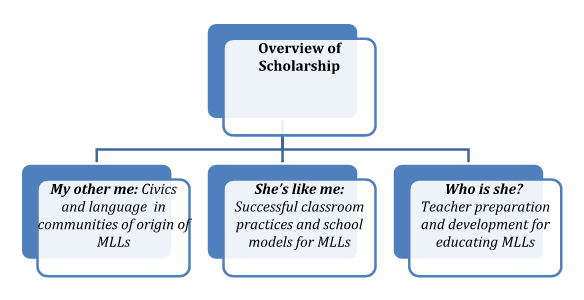
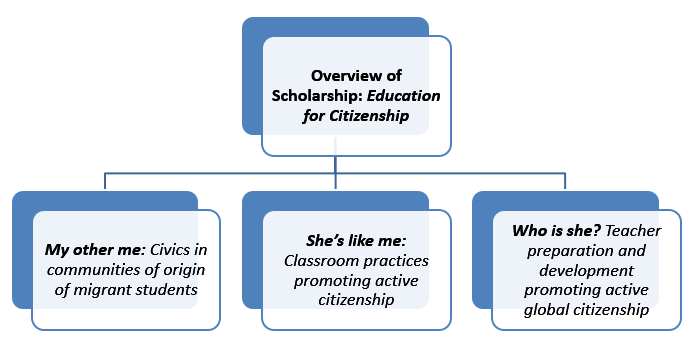
round 2 of updates
some text, still need to format better - css changes?

Changed region(s): [[0.0, 0.03, 0.9863, 0.96]]

diff --git a/index.html b/index.html
@@ -46,7 +46,7 @@
 											<header>
 												<h2>A little bit about me:</h2>
 											</header>											
-											<h3>Assistant Professor of Education Leadership</h3>
+											<h3>Assistant Professor of Educational Leadership</h3>
 											<p>I'll be teaching a couple of classes in the fall at
 											<a href="http://http://www.lewisu.edu/">Lewis University</a>. 
 											This will be my first year there and I'm excited to be a part
@@ -70,46 +70,29 @@
 														<article class="box excerpt">
 															<header>
 																<!--      <span class="date">July 30</span>    -->
-																<h3><a href="#">Moved to Chicago</a></h3>
+																<h3>Recent Article</h3>
 															</header>
-															<p>In late May my family and I moved to Chicago and started
-															   a new tradition of eating dim sum every Sunday.</p>
+															<p>See my recent article on teacher practice in
+															   International Baccalaureate Schools 
+															   <a href ="http://www.tcrecord.org/content.asp?contentid=18072">here</a>.
+															</p>
 														</article>
 
 												</li>
 												<li>
-
 													<!-- Excerpt -->
 														<article class="box excerpt">
 															<header>																
-																<h3><a href="#">Published Some Stuff</a></h3>
+																<h3>Arnhold Symposium Presentation</h3>
 															</header>
-															<p>Also a pretty sick journal is featuring my writing, you can
-															   be stopped by the paywall if you go <a href=""www.google.com">here</a>.</p>
+															<p>In October I gave a presentation on 
+															   Human Rights in Education Discourse in Post-Conflict Liberia
+															   at the Arnhold Symposium; more information is available 
+															   <a href="http://www.gei.de/en/fellowships/georg-arnhold-program/arnhold-symposium.html">here</a>.
+															   </p>
 														</article>
 
 												</li>												
-											</ul>
-										</section>
-
-									<!-- Highlights -->
-										<section>
-											<ul class="divided">
-												<li>
-
-													<!-- Highlight -->
-														<article class="box highlight">
-															<header>
-																<h3><a href="#">French Neighbors</a></h3>
-															</header>
-															<a href="#" class="image left"><img src="images/COlake.jpg" alt="" /></a>
-															<p>And vacays to Colorado to visit my favorite sister.</p>
-															<ul class="actions">
-																<li><a href="#" class="button icon fa-file">Learn More</a></li>
-															</ul>
-														</article>
-
-												</li>
 											</ul>
 										</section>
 
@@ -162,9 +145,9 @@
 													Romeoville, IL 60446-2200<br />													
 													USA
 												</li>
-												<li class="icon fa-phone">
+								<!--		    	<li class="icon fa-phone">
 													(815) 838-0500
-												</li>
+												</li> -->
 												<li class="icon fa-envelope">
 													<a href="#">lauraquaynor@gmail.com</a>
 												</li>
@@ -173,11 +156,11 @@
 										<div class="6u 12u(mobile)">
 											<ul class="icons">
 												<li class="icon fa-twitter">
-													<a href="#">@untitled-tld</a>
+													<a href="#">@LauraQuaynor</a>
 												</li>
-												<li class="icon fa-instagram">
+								<!--				<li class="icon fa-instagram">
 													<a href="#">instagram.com/untitled-tld</a>
-												</li>
+												</li> -->
 												<li class="icon fa-facebook">
 													<a href="#">facebook.com/laura.quaynor</a>
 												</li>

diff --git a/Teaching.html b/Teaching.html
@@ -52,13 +52,13 @@
 											must first love and understand the universe.” I am infinitely curious about the way cultures, 
 											languages, history, and society shape the educational enterprise, and make it a point to explore 
 											issues in education and the world around us with my students.  For example, in courses preparing 
-											students to work with multilingual learners, we view films such as Rabbit Proof Fence, The 
-											Graduates, and Precious Knowledge in order to explore historical and contemporary issues 
-											surrounding multilingualism. We also visit community sites of learning, attending PTA 
-											meetings, afterschool programs, and extracurricular activities salient to multilingual students. To 
+											students to be social studies educators, we view films such as Precious Knowledge, Older Than America,
+											and War Don Don in order to explore historical and contemporary issues surrounding social
+											studies education. We also visit community sites of learning, attending PTA meetings, 
+											afterschool programs, and extracurricular activities salient to student civic learning. To 
 											help students have an embodied experience of learning in an unknown language, a colleague and 
 											I developed a set of instructional videos in Twi, a language unknown to most students, to 
-											demonstrate different language learning methods.</p>
+											demonstrate the importance of sheltered or bilingual instruction.</p>
 											<p>Interested? Download my entire philosophy <a href="https://drive.google.com/open?id=0BzcazMD6IV8iWkpGaU90LXhiSXhEUWlIQ1oxTERmcjczZl9F">here</a>.</p>
 											<h3>Courses Taught</h3>
 											<p>Lewis University</p>
@@ -191,7 +191,7 @@
 					</div>
 				</div>
 
-						<!-- Footer -->
+			<!-- Footer -->
 				<div id="footer-wrapper">
 					<div id="footer" class="container">
 						<header>
@@ -235,9 +235,9 @@
 													Romeoville, IL 60446-2200<br />													
 													USA
 												</li>
-												<li class="icon fa-phone">
+								<!--		    	<li class="icon fa-phone">
 													(815) 838-0500
-												</li>
+												</li> -->
 												<li class="icon fa-envelope">
 													<a href="#">lauraquaynor@gmail.com</a>
 												</li>
@@ -246,11 +246,11 @@
 										<div class="6u 12u(mobile)">
 											<ul class="icons">
 												<li class="icon fa-twitter">
-													<a href="#">@untitled-tld</a>
+													<a href="#">@LauraQuaynor</a>
 												</li>
-												<li class="icon fa-instagram">
+								<!--				<li class="icon fa-instagram">
 													<a href="#">instagram.com/untitled-tld</a>
-												</li>
+												</li> -->
 												<li class="icon fa-facebook">
 													<a href="#">facebook.com/laura.quaynor</a>
 												</li>
@@ -267,7 +267,6 @@
 						</ul>
 					</div>
 				</div>
-
 		</div>
 
 		<!-- Scripts -->

diff --git a/CV.html b/CV.html
@@ -46,8 +46,22 @@
 										<h2>Professional Biography</h2>
 									</header>
 																		
-									<p>Alyssa Dunn has an 'abstract' of her CV, is that something you'd be 
-									interested in having too?</p>
+									<p>Dr. Laura Quaynor is an Assistant Professor in the College of Education 
+									at Lewis University. She previously worked as an Assistant Professor of 
+									Curriculum and Instruction in the School of Education at the University 
+									of South Carolina Aiken in the School of Education.  A former ESL and 
+									French Immersion elementary teacher, she received her Ph.D. from Emory University. 
+									Her work focuses on citizenship education in contexts of migration and conflict, 
+									particularly in West Africa and the United States.  She draws on post-colonial 
+									and social justice lenses in her teaching and research, believing in the 
+									possibility that education can, indeed, lead to transformation of ourselves, 
+									or communities, and our world.  She has authored recent publications in the 
+									journals Teachers' College Record, Research in Comparative and International 
+									Education, and the Journal of Peace Education.  She serves on the board of the 
+									Africa Special Interest Group in the Comparative and International Education Society, 
+									as well as the Critical Educators for Social Justice Special Interest Group at AERA, 
+									and is particularly interested in considering social justice from global and 
+									transnational perspectives.</p>
 									<p>Download a full copy of my CV <a href="https://drive.google.com/open?id=0BzcazMD6IV8iYjctaEZPVm0tWEhWUHZEMGJOUnV1VklHYWpv">here</a>. </p>									
 								</article>
 
@@ -55,7 +69,7 @@
 					</div>
 				</div>
 
-						<!-- Footer -->
+			<!-- Footer -->
 				<div id="footer-wrapper">
 					<div id="footer" class="container">
 						<header>
@@ -99,9 +113,9 @@
 													Romeoville, IL 60446-2200<br />													
 													USA
 												</li>
-												<li class="icon fa-phone">
+								<!--		    	<li class="icon fa-phone">
 													(815) 838-0500
-												</li>
+												</li> -->
 												<li class="icon fa-envelope">
 													<a href="#">lauraquaynor@gmail.com</a>
 												</li>
@@ -110,11 +124,11 @@
 										<div class="6u 12u(mobile)">
 											<ul class="icons">
 												<li class="icon fa-twitter">
-													<a href="#">@untitled-tld</a>
+													<a href="#">@LauraQuaynor</a>
 												</li>
-												<li class="icon fa-instagram">
+								<!--				<li class="icon fa-instagram">
 													<a href="#">instagram.com/untitled-tld</a>
-												</li>
+												</li> -->
 												<li class="icon fa-facebook">
 													<a href="#">facebook.com/laura.quaynor</a>
 												</li>
@@ -131,7 +145,6 @@
 						</ul>
 					</div>
 				</div>
-
 		</div>
 
 		<!-- Scripts -->

diff --git a/Research.html b/Research.html
@@ -48,8 +48,8 @@
 											</header>
 																
 											<p>Greetings!  I am an Assistant Professor of Educational Leadership in the College of Education at Lewis University, 
-											where I teach courses that focus on ESL/bilingual education. My research focuses on citizenship education and language 
-											education in contexts of migration, conflict, and change, particularly in Ghana, Liberia, and the United States.</p>    
+											where I teach courses that focus on ESL/bilingual education. My research focuses on citizenship education 
+											in contexts of migration, conflict, and change, particularly in Ghana, Liberia, and the United States.</p>    
 											<p>I conceptualize my underlying philosophy for engaging in educational research and teacher preparation with this Adinkra Symbol, 
 											which comes from the Akan ethnic group in Ghana.  This saying “if your hands are in the dish, …,” refers to a communal style of 
 											eating from one bowl, and is a metaphor for the democratic enterprise.  In order for a more equitable and healthy society for 
@@ -136,9 +136,9 @@
 													Romeoville, IL 60446-2200<br />													
 													USA
 												</li>
-												<li class="icon fa-phone">
+								<!--		    	<li class="icon fa-phone">
 													(815) 838-0500
-												</li>
+												</li> -->
 												<li class="icon fa-envelope">
 													<a href="#">lauraquaynor@gmail.com</a>
 												</li>
@@ -147,11 +147,11 @@
 										<div class="6u 12u(mobile)">
 											<ul class="icons">
 												<li class="icon fa-twitter">
-													<a href="#">@untitled-tld</a>
+													<a href="#">@LauraQuaynor</a>
 												</li>
-												<li class="icon fa-instagram">
+								<!--				<li class="icon fa-instagram">
 													<a href="#">instagram.com/untitled-tld</a>
-												</li>
+												</li> -->
 												<li class="icon fa-facebook">
 													<a href="#">facebook.com/laura.quaynor</a>
 												</li>
@@ -168,7 +168,6 @@
 						</ul>
 					</div>
 				</div>
-
 		</div>
 
 		<!-- Scripts -->

diff --git a/ServiceAdvocacy.html b/ServiceAdvocacy.html
@@ -64,8 +64,7 @@
 					</div>
 				</div>
 
-						<!-- Footer -->
-						<!-- what if we have no footer?
+			<!-- Footer -->
 				<div id="footer-wrapper">
 					<div id="footer" class="container">
 						<header>
@@ -109,9 +108,9 @@
 													Romeoville, IL 60446-2200<br />													
 													USA
 												</li>
-												<li class="icon fa-phone">
+								<!--		    	<li class="icon fa-phone">
 													(815) 838-0500
-												</li>
+												</li> -->
 												<li class="icon fa-envelope">
 													<a href="#">lauraquaynor@gmail.com</a>
 												</li>
@@ -120,11 +119,11 @@
 										<div class="6u 12u(mobile)">
 											<ul class="icons">
 												<li class="icon fa-twitter">
-													<a href="#">@untitled-tld</a>
+													<a href="#">@LauraQuaynor</a>
 												</li>
-												<li class="icon fa-instagram">
+								<!--				<li class="icon fa-instagram">
 													<a href="#">instagram.com/untitled-tld</a>
-												</li>
+												</li> -->
 												<li class="icon fa-facebook">
 													<a href="#">facebook.com/laura.quaynor</a>
 												</li>
@@ -140,11 +139,7 @@
 							<li>&copy; Stanley Web Design. All rights reserved.</li><li>Design: <a href="http://html5up.net">HTML5 UP</a></li>
 						</ul>
 					</div>
-				</div>
-
-		</div>
-							-->
-		<!-- Scripts -->
+				</div>		<!-- Scripts -->
 			<script src="assets/js/jquery.min.js"></script>
 			<script src="assets/js/jquery.dropotron.min.js"></script>
 			<script src="assets/js/skel.min.js"></script>
